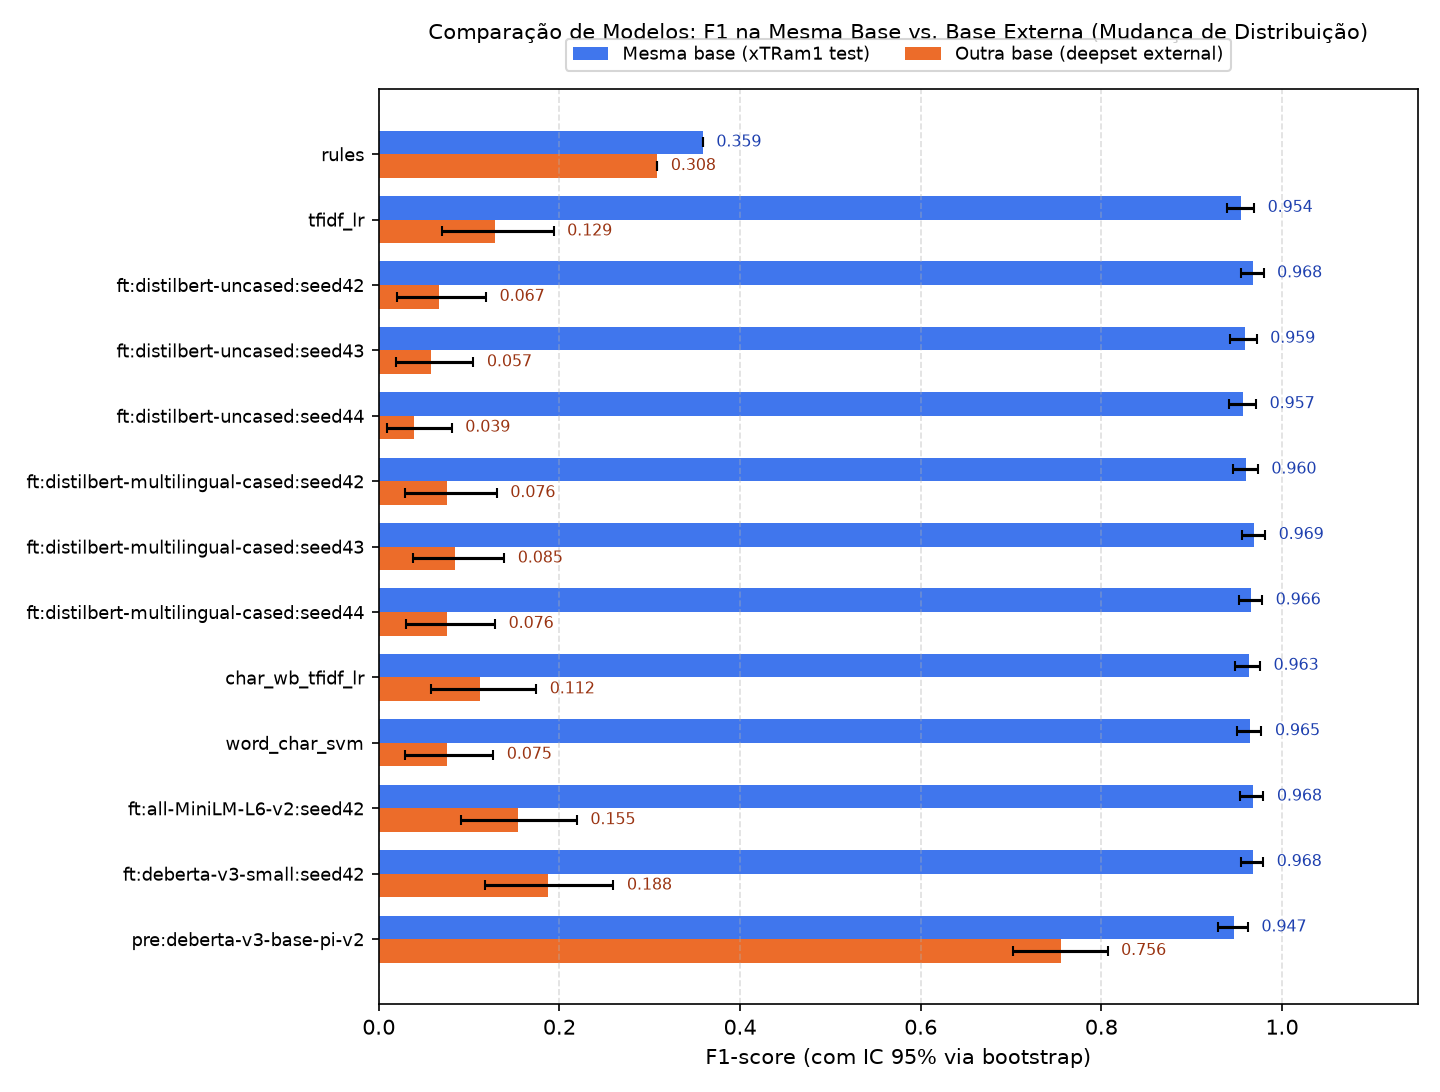
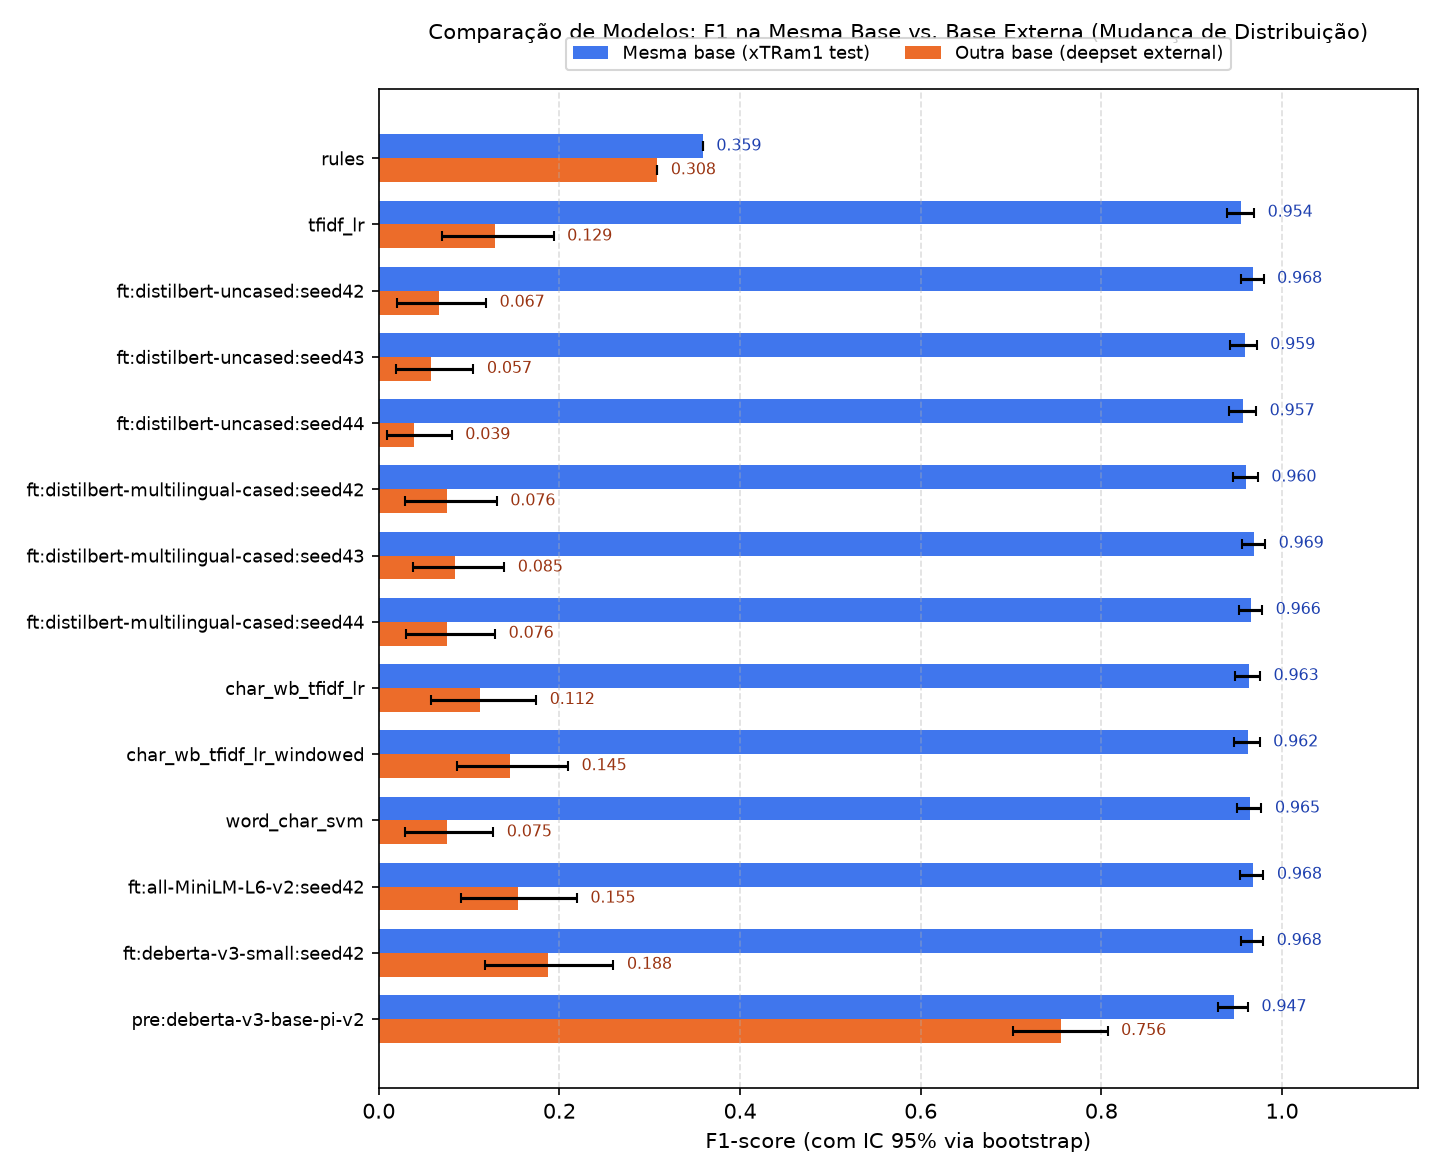
feat: evaluate char_wb_tfidf_lr_windowed and n=30 few-shot recalibration

diff --git a/src/pid/cli.py b/src/pid/cli.py
@@ -126,10 +126,34 @@ def run(config: dict | None, synthetic: bool, out_dir: str, extra_baselines: boo
                 "external_ci95": {
                     "f1": list(evaluate.bootstrap_ci(labels(external), bext, bthr, "f1", seed=seed)),
                 },
+                "external_recalibrated_n30": evaluate.recalibrate_few_shot(
+                    labels(external), bext, n_calib=30, target_recall=0.80, seed=seed),
                 "latency_ms_cpu": evaluate.measure_latency(
                     lambda t, m=bmodel: baselines.tfidf_scores(m, [t]), texts(test)),
             }
             report.add_model(metrics, b_entry)
+            if bname == "char_wb_tfidf_lr":
+                wtest = baselines.windowed_tfidf_scores(bmodel, texts(test))
+                wext = baselines.windowed_tfidf_scores(bmodel, texts(external))
+                w_entry = {
+                    "name": "char_wb_tfidf_lr_windowed",
+                    "size_mb": b_entry["size_mb"],
+                    "threshold": bthr,
+                    "in_distribution": _score_block(labels(test), wtest, bthr),
+                    "in_distribution_ci95": {
+                        "f1": list(evaluate.bootstrap_ci(labels(test), wtest, bthr, "f1", seed=seed)),
+                        "roc_auc": list(evaluate.bootstrap_ci(labels(test), wtest, bthr, "roc_auc", seed=seed)),
+                    },
+                    "external": _score_block(labels(external), wext, bthr),
+                    "external_ci95": {
+                        "f1": list(evaluate.bootstrap_ci(labels(external), wext, bthr, "f1", seed=seed)),
+                    },
+                    "external_recalibrated_n30": evaluate.recalibrate_few_shot(
+                        labels(external), wext, n_calib=30, target_recall=0.80, seed=seed),
+                    "latency_ms_cpu": evaluate.measure_latency(
+                        lambda t, m=bmodel: baselines.windowed_tfidf_scores(m, [t]), texts(test)),
+                }
+                report.add_model(metrics, w_entry)
 
     # --- erros para leitura manual (não versionar) ---
     report.write_errors(out / "errors_tfidf_in_distribution.csv", test, test_scores, thr, "in_distribution")
